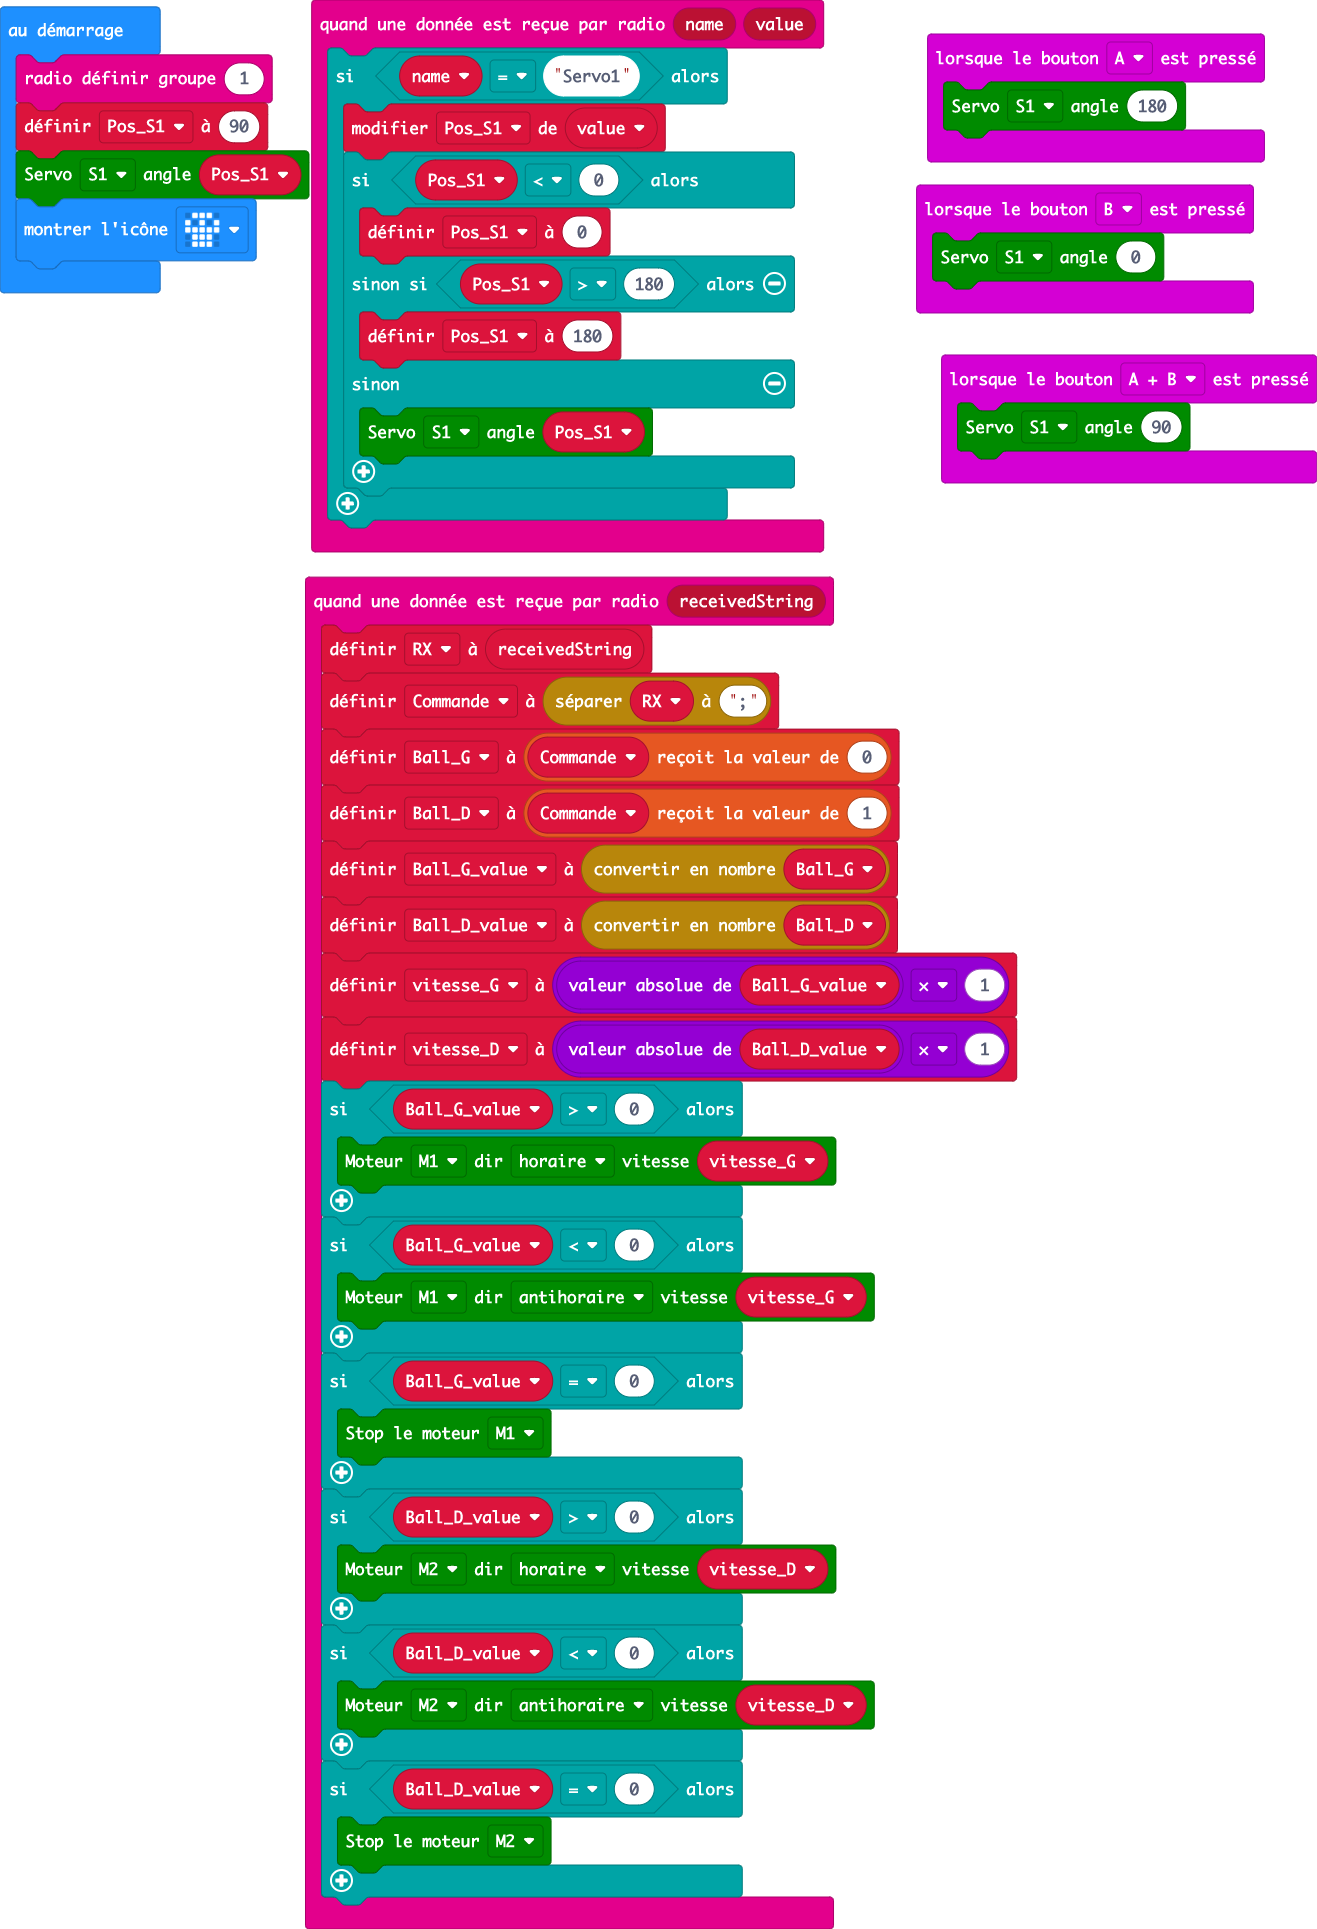
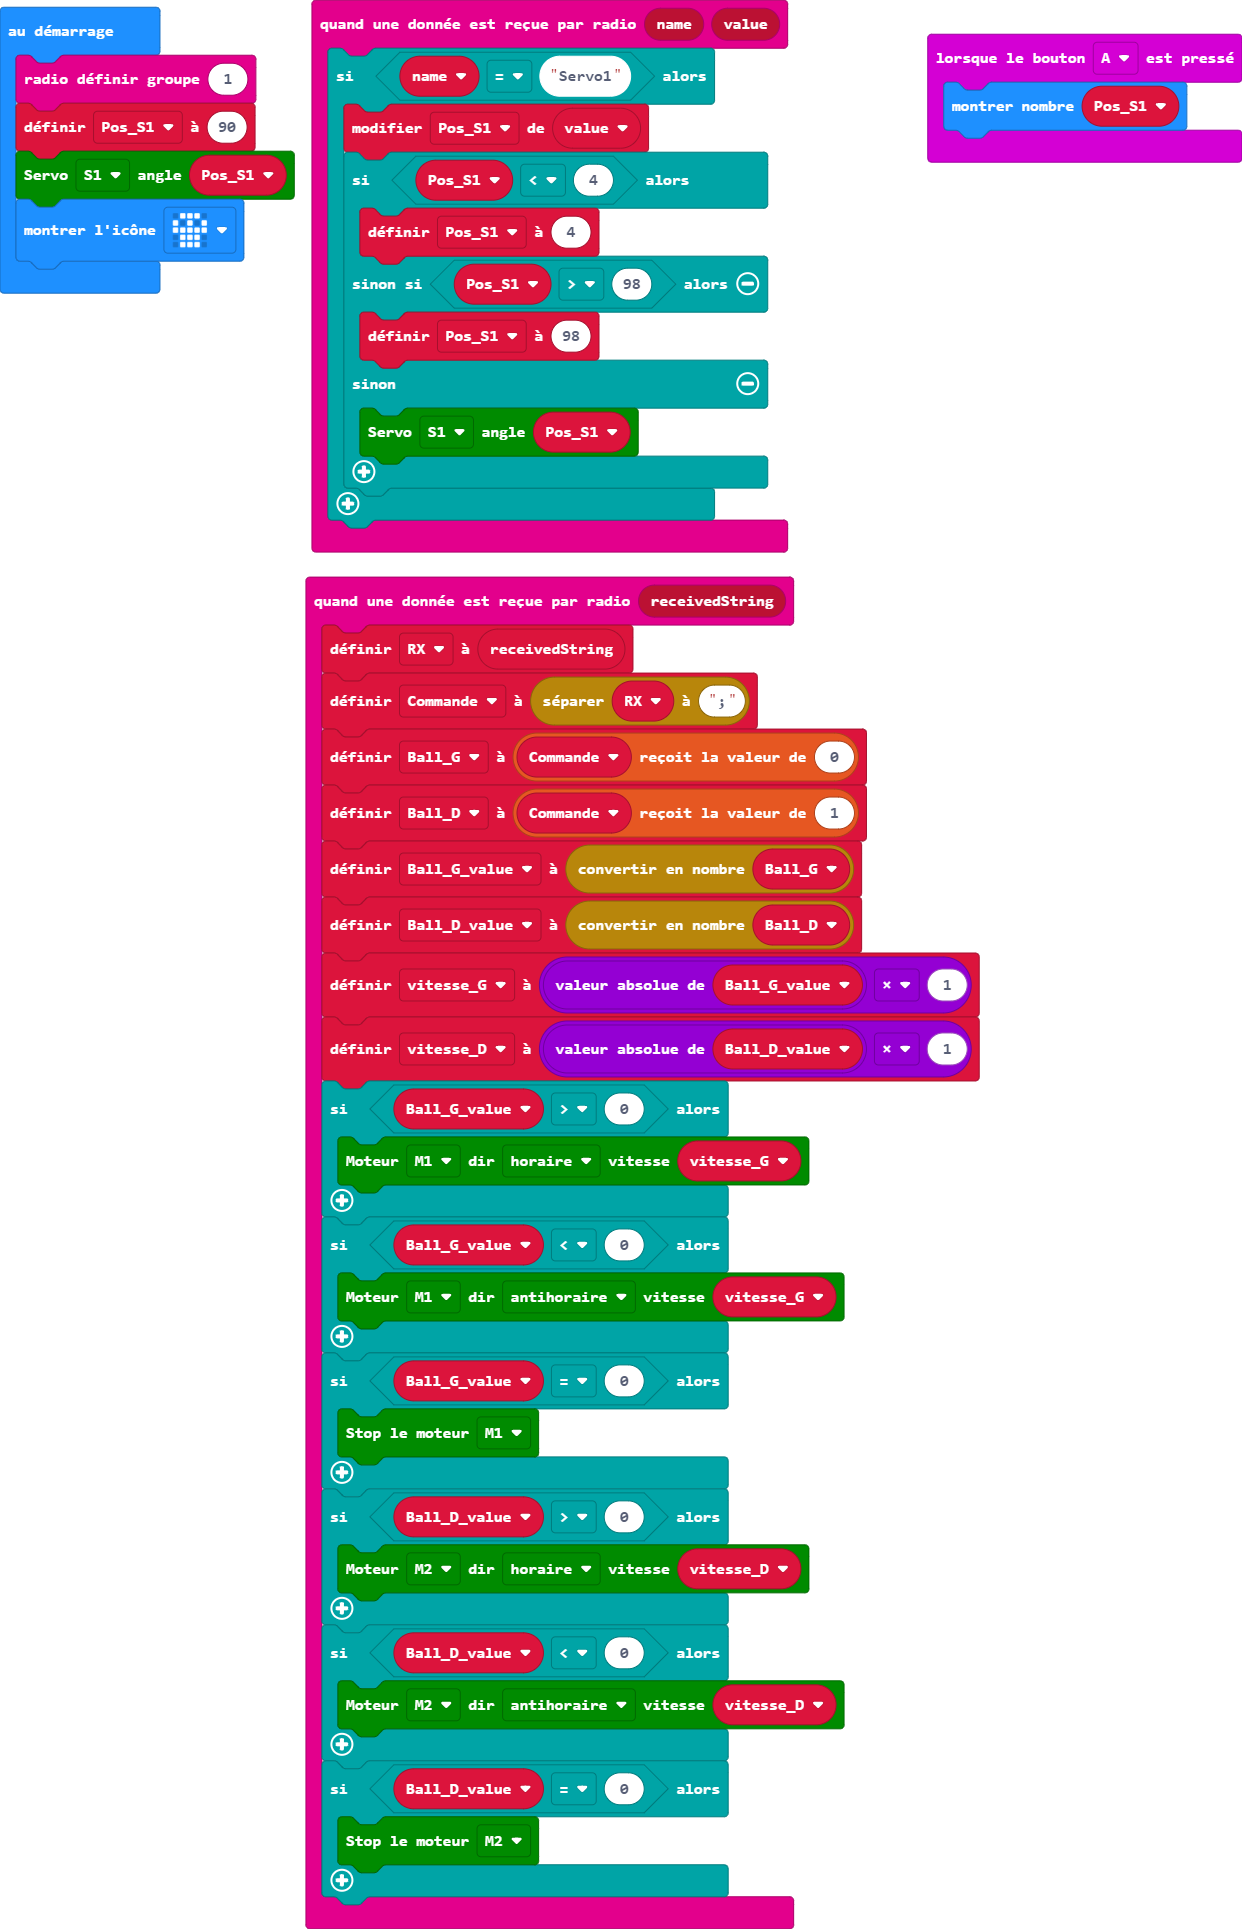
Mise à jour main.blocks, main.ts

diff --git a/main.ts b/main.ts
@@ -1,8 +1,5 @@
 input.onButtonPressed(Button.A, function () {
-    maqueen.servoRun(maqueen.Servos.S1, 180)
-})
-input.onButtonPressed(Button.AB, function () {
-    maqueen.servoRun(maqueen.Servos.S1, 90)
+    basic.showNumber(Pos_S1)
 })
 radio.onReceivedString(function (receivedString) {
     RX = receivedString
@@ -32,16 +29,13 @@ radio.onReceivedString(function (receivedString) {
         maqueen.motorStop(maqueen.Motors.M2)
     }
 })
-input.onButtonPressed(Button.B, function () {
-    maqueen.servoRun(maqueen.Servos.S1, 0)
-})
 radio.onReceivedValue(function (name, value) {
     if (name == "Servo1") {
         Pos_S1 += value
-        if (Pos_S1 < 0) {
-            Pos_S1 = 0
-        } else if (Pos_S1 > 180) {
-            Pos_S1 = 180
+        if (Pos_S1 < 4) {
+            Pos_S1 = 4
+        } else if (Pos_S1 > 98) {
+            Pos_S1 = 98
         } else {
             maqueen.servoRun(maqueen.Servos.S1, Pos_S1)
         }
